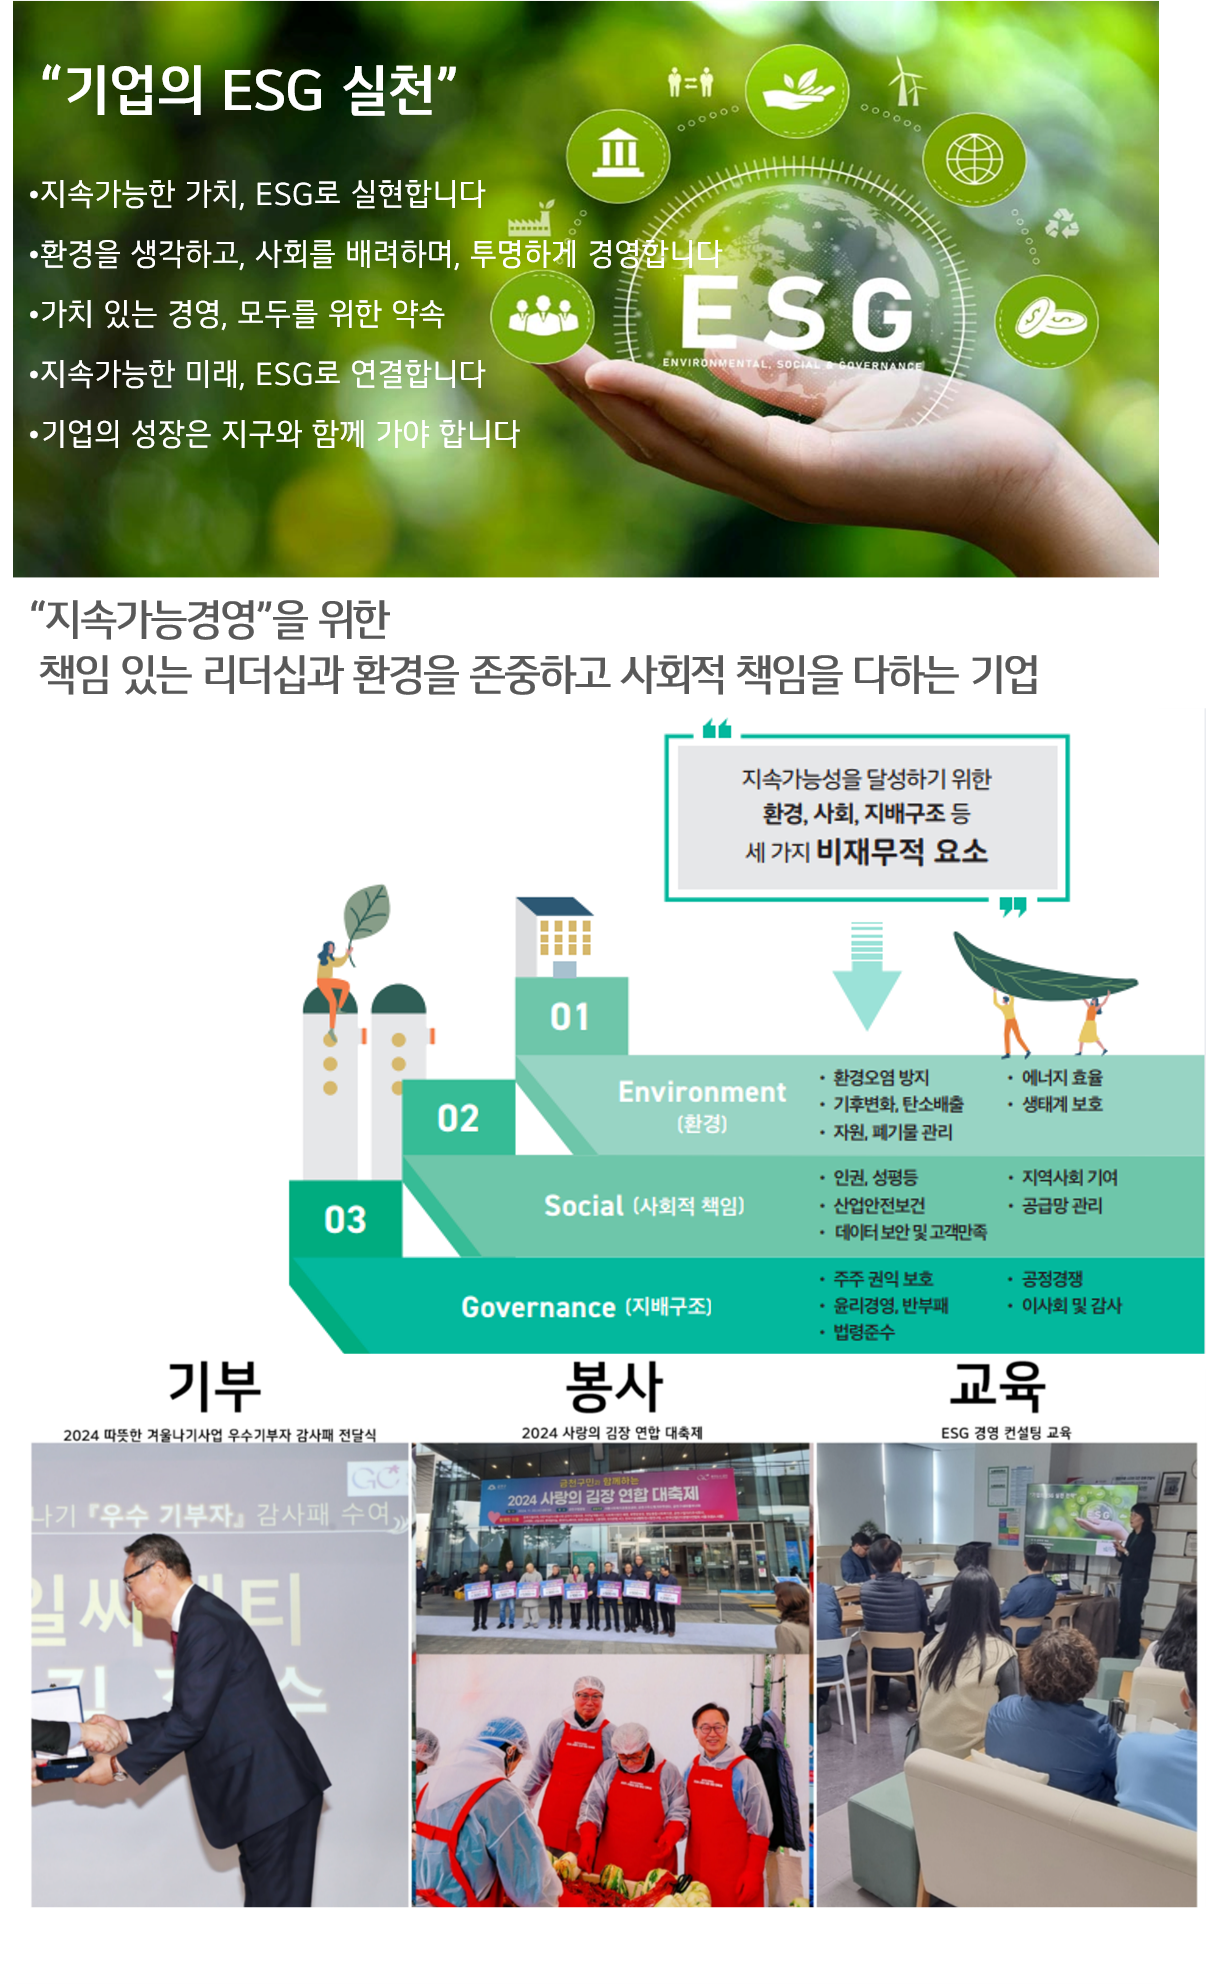
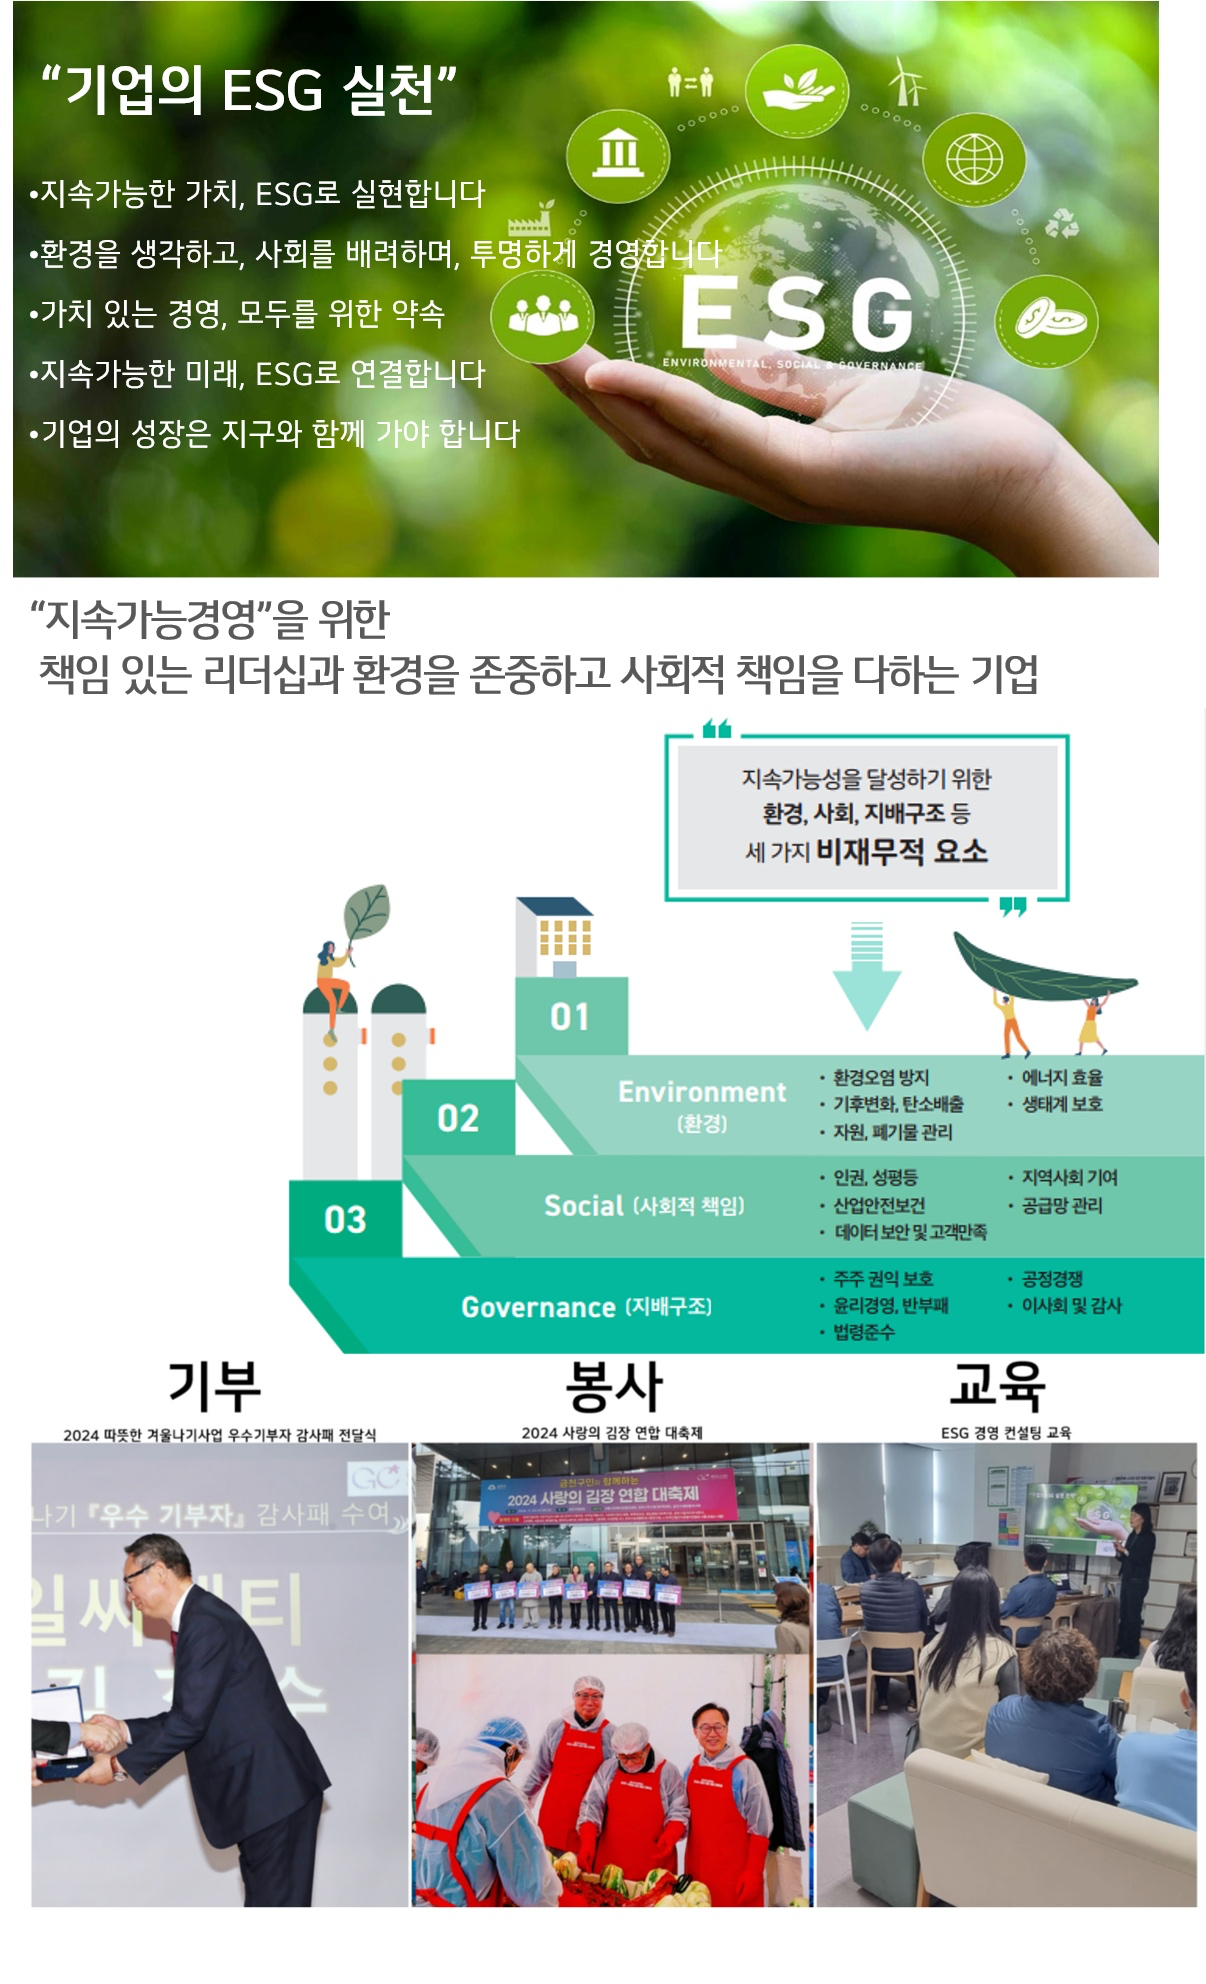
Update home controls and ESG image

diff --git a/src/pages/Home/Home.css b/src/pages/Home/Home.css
@@ -415,12 +415,10 @@
   right: 0;
   bottom: 0;
   width: 160px;
-  height: 160px;
-  background: #2e8b4a; 
-  padding: 20px;
-  display: flex;
-  flex-direction: column;
-  justify-content: space-between;
+  height: auto;
+  background: transparent;
+  padding: 0 20px 20px;
+  display: block;
   z-index: 10;
 }
 
@@ -436,26 +434,30 @@
 .green-box-controls {
   display: flex;
   width: 100%;
-  border-top: 1px solid rgba(255, 255, 255, 0.3);
+  border-top: 1px solid rgba(255, 255, 255, 0.62);
   padding-top: 10px;
 }
 
 .green-box-controls button {
   flex: 1;
+  width: auto;
+  height: auto;
   background: transparent;
   border: none;
+  border-radius: 0;
   color: #fff;
   display: flex;
   align-items: center;
   justify-content: center;
   cursor: pointer;
-  opacity: 0.85;
+  opacity: 0.98;
   transition: opacity 0.2s, transform 0.2s;
   padding: 8px 0;
+  box-shadow: none;
 }
 
 .green-box-controls button:first-child {
-  border-right: 1px solid rgba(255, 255, 255, 0.3);
+  border-right: 1px solid rgba(255, 255, 255, 0.62);
 }
 
 .green-box-controls button:hover {
@@ -474,7 +476,7 @@
 .ref-process-code {
   font-size: 3.5rem;
   font-weight: 900;
-  color: #e2e8f0; 
+  color: #cbd5e1;
   line-height: 0.85;
   letter-spacing: -2px;
   user-select: none;
@@ -1123,15 +1125,13 @@
     aspect-ratio: auto;
   }
 
-  /* 태블릿 환경의 연두색 박스 대응 */
+  /* 태블릿 환경의 슬라이드 컨트롤 대응 */
   .ref-overlap-green-box {
+    right: 0;
+    bottom: 0;
     width: 130px;
-    height: 130px;
-    padding: 14px;
-  }
-  
-  .green-box-title {
-    font-size: 0.9rem;
+    height: auto;
+    padding: 0 14px 14px;
   }
   
   /* 태블릿에서 뷰포트 높이 고정 */
@@ -1403,15 +1403,19 @@
     padding: 22px;
   }
 
-  /* 더 작은 화면에서 연두색 박스 및 텍스트 추가 대응 */
+  /* 더 작은 화면에서 슬라이드 컨트롤 대응 */
   .ref-overlap-green-box {
+    right: 0;
+    bottom: 0;
     width: 110px;
-    height: 110px;
-    padding: 10px;
+    height: auto;
+    padding: 0 10px 10px;
   }
 
-  .green-box-title {
-    font-size: 0.8rem;
+  .green-box-controls button {
+    flex-basis: auto;
+    width: auto;
+    height: auto;
   }
 
   .ref-process-code {
@@ -1506,7 +1510,7 @@
 .ref-process-code {
   font-size: 3.5rem;
   font-weight: 900;
-  color: #f1f5f9;
+  color: #cbd5e1;
   line-height: 0.85;
   letter-spacing: -2px;
 }

diff --git a/src/pages/ESG/ESG.css b/src/pages/ESG/ESG.css
@@ -8,24 +8,20 @@
   overflow: hidden;
   box-shadow: var(--shadow-xl);
   background: var(--gradient-dark);
-  min-height: 620px;
+  min-height: 280px;
 }
 
 .esg-hero-img-wrap {
   position: relative;
-  height: clamp(620px, 70vw, 720px);
   min-height: 0;
-  overflow: hidden;
-  background: linear-gradient(135deg, rgba(46, 139, 74, 0.22), rgba(27, 58, 92, 0.36));
+  background: #fff;
 }
 
 .esg-hero-img {
-  width: 108%;
-  max-width: none;
-  height: 100%;
+  width: 100%;
+  height: auto;
   min-height: 0;
-  object-fit: cover;
-  object-position: left top;
+  object-fit: contain;
   display: block;
   background: #fff;
 }
@@ -169,18 +165,14 @@
 }
 
 @media (max-width: 1024px) {
-  .esg-hero {
-    grid-template-columns: 1fr;
-    min-height: 0;
-  }
+  .esg-hero { grid-template-columns: 1fr; }
   .esg-hero-img-wrap {
-    height: clamp(520px, 150vw, 620px);
+    min-height: 0;
   }
   .esg-hero-img {
-    height: 100%;
+    height: auto;
     min-height: 0;
-    max-height: none;
-    object-fit: cover;
+    object-fit: contain;
   }
   .esg-overview { grid-template-columns: repeat(3, 1fr); }
   .esg-items-grid { grid-template-columns: repeat(2, 1fr); }
@@ -190,7 +182,7 @@
   .esg-section-block { padding: 24px 20px; }
   .esg-overview { grid-template-columns: 1fr; max-width: 400px; margin-left: auto; margin-right: auto; }
   .esg-items-grid { grid-template-columns: 1fr; }
-  .esg-hero-img-wrap {
-    height: clamp(500px, 145vw, 560px);
+  .esg-hero-img {
+    width: 100%;
   }
 }

diff --git a/src/pages/Home/Home.jsx b/src/pages/Home/Home.jsx
@@ -351,14 +351,11 @@ export default function Home() {
                     ))}
                   </div>
 
-                  {/* ★ 레퍼런스 매칭: 우측 하단 텍스트박스 + 버튼 통합 연두색 컨테이너 */}
+                  {/* 우측 하단 슬라이드 컨트롤 */}
                   <div className="ref-overlap-green-box">
-                    <div className="green-box-title">
-                      태일씨앤티의<br/> 골조 기준
-                    </div>
                     <div className="green-box-controls">
-                      <button onClick={handlePrevStep} aria-label="이전"><ChevronLeft size={18} /></button>
-                      <button onClick={handleNextStep} aria-label="다음"><ChevronRight size={18} /></button>
+                      <button type="button" onClick={handlePrevStep} aria-label="이전 공정 이미지 보기"><ChevronLeft size={18} /></button>
+                      <button type="button" onClick={handleNextStep} aria-label="다음 공정 이미지 보기"><ChevronRight size={18} /></button>
                     </div>
                   </div>
                 </div>